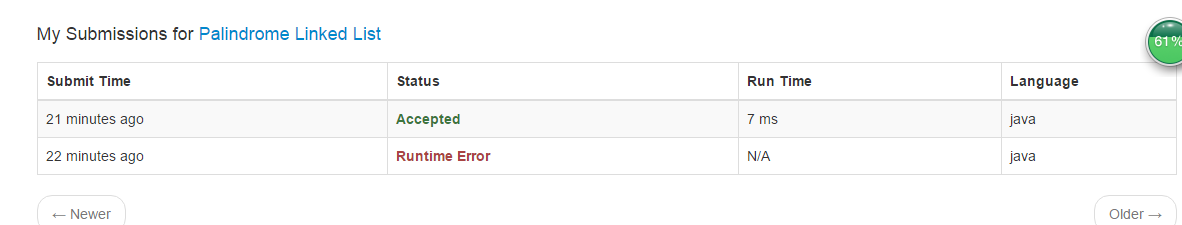
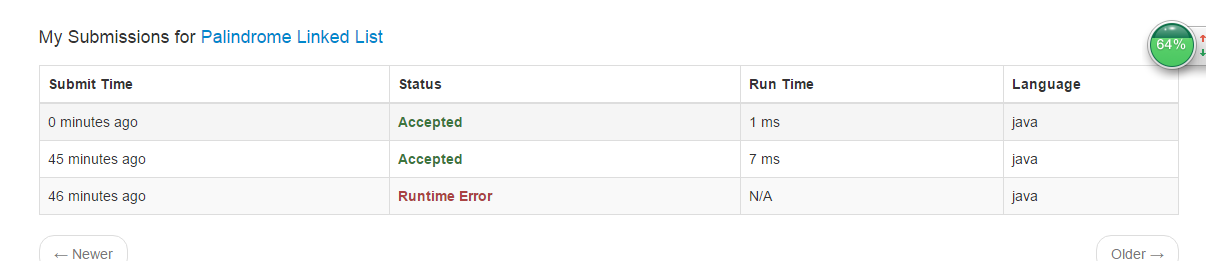
yu-1-1

diff --git a/第三次作业/leetcode_234.java b/第三次作业/leetcode_234.java
@@ -8,29 +8,65 @@
  */
 public class Solution {
     public boolean isPalindrome(ListNode head) {
-         if(head==null)
+        if (head == null)
             return true;
-        Stack<Integer> stack = new Stack<>();
+//        Stack<Integer> stack = new Stack<>();
+//        ListNode p = head;
+//        int len = 0;
+//        while (p != null) {
+//            len++;
+//            p = p.next;
+//        }
+//        int il = len / 2;
+//        p = head;
+//        while (il-->0) {
+//            stack.push(p.val);
+//            p = p.next;
+//        }
+//        System.out.println(p.val);
+//        if (len % 2 != 0) {
+//            p = p.next;
+//        }
+//        while (!stack.isEmpty()) {
+//            if (p.val != stack.pop())
+//                return false;
+//            p=p.next;
+//        }
         ListNode p = head;
         int len = 0;
         while (p != null) {
             len++;
             p = p.next;
         }
+        ListNode pre;
+        p=head;
         int il = len / 2;
-        p = head;
-        while (il-->0) {
-            stack.push(p.val);
+        while (il-- > 0) {
             p = p.next;
         }
-        System.out.println(p.val);
         if (len % 2 != 0) {
+            pre = p;
             p = p.next;
+        } else {
+            pre = null;
         }
-        while (!stack.isEmpty()) {
-            if (p.val != stack.pop())
+
+        ListNode next;
+        while (p != null) {
+            next = p.next;
+            p.next = pre;
+            pre = p;
+            p = next;
+        }
+        ListNode last = pre;
+        ListNode fst = head;
+        while (last != null && last != fst) {
+            if (fst.val != last.val) {
                 return false;
-            p=p.next;
+            }
+            fst = fst.next;
+            last = last.next;
+
         }
         return true;
     }
